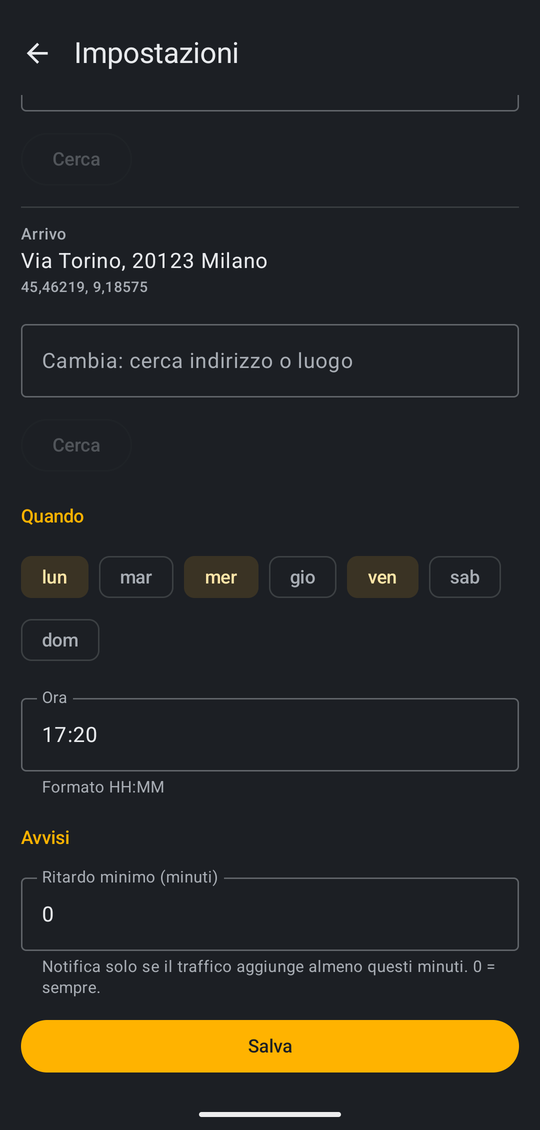
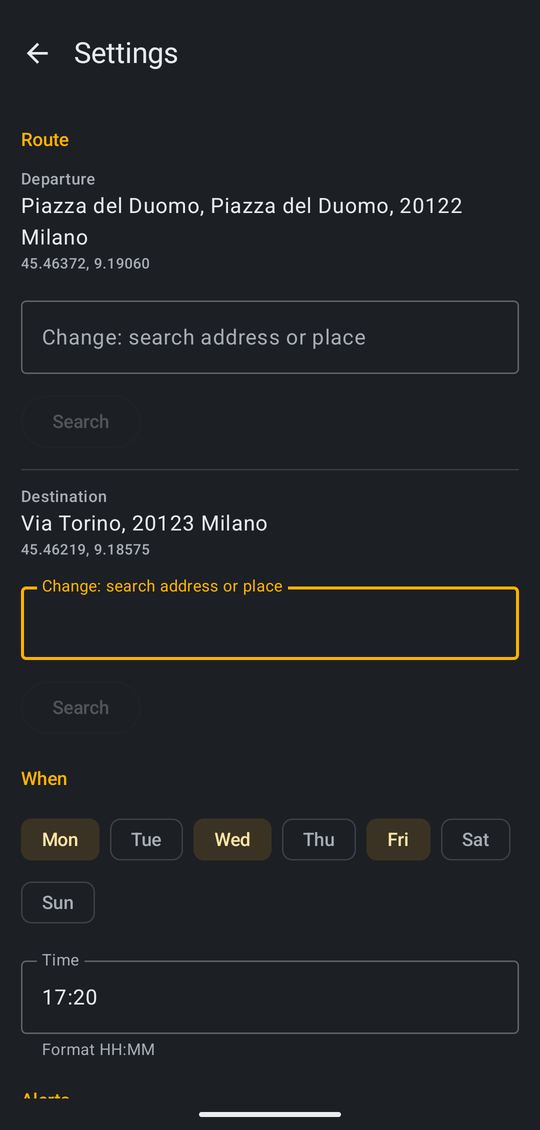
README: new screenshots (slow day, normal day, settings)
Demo routes only (New York, Milan), English UI, status bar cropped.

diff --git a/README.md b/README.md
@@ -6,9 +6,11 @@ notification with the time, the delay and any jams on the way.
 No backend: just AlarmManager, WorkManager and DataStore.
 
 <p align="center">
-  <img src="docs/screenshots/home.png" width="270" alt="Home: travel time colored by traffic level, route and next check">
-  &nbsp;&nbsp;
-  <img src="docs/screenshots/settings.png" width="270" alt="Settings: route, days, time and minimum delay">
+  <img src="docs/screenshots/home-traffic.png" width="250" alt="Home on a slow day: the jam and its street, how much earlier to leave, the route colored by traffic">
+  &nbsp;
+  <img src="docs/screenshots/home-clear.png" width="250" alt="Home on a normal day: all clear, travel time, route with no slowdowns">
+  &nbsp;
+  <img src="docs/screenshots/settings.png" width="250" alt="Settings: departure and destination, days and time">
 </p>
 
 The UI is in English and Italian, following the device language.

diff --git a/.ai/product.md b/.ai/product.md
@@ -43,7 +43,7 @@ A scheduled, single-trip watcher rather than a navigator: it speaks only when th
 - No specific addresses in code, docs or screenshots; the app stays generic.
 
 ## Evidence on Hand
-- Real screens: `docs/screenshots/home.png`, `docs/screenshots/settings.png` (demo route, Milan; v0.1.0 layout).
+- Real screens (demo routes New York and Milan, English): `docs/screenshots/home-traffic.png`, `home-clear.png`, `settings.png`.
 - No users, testimonials or metrics beyond the author.
 
 ## Product Principles
